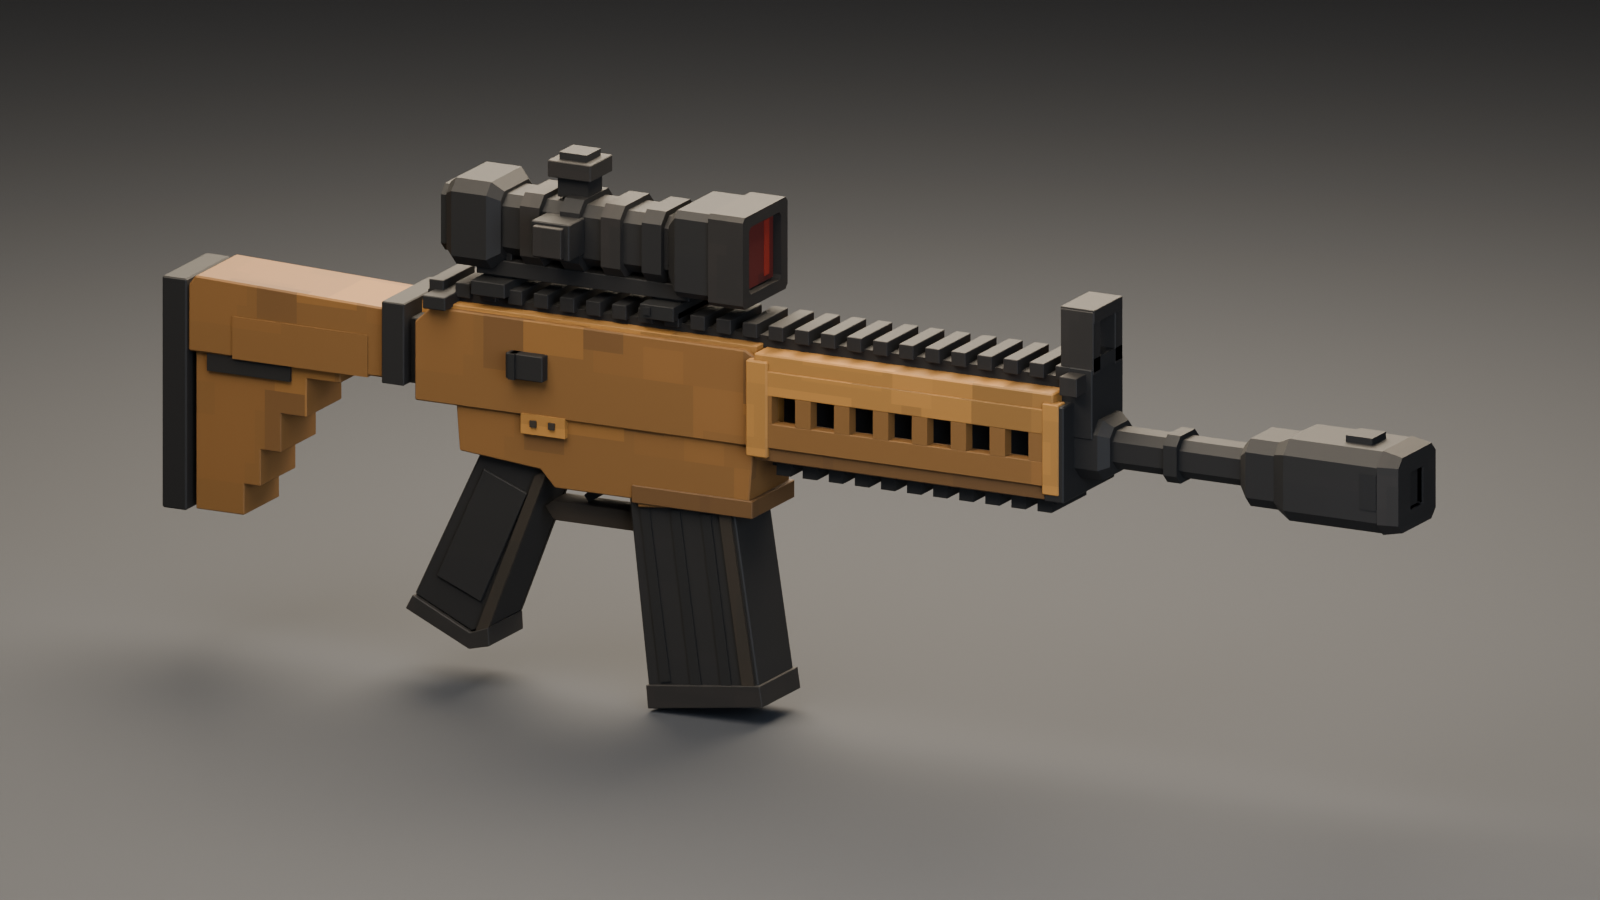
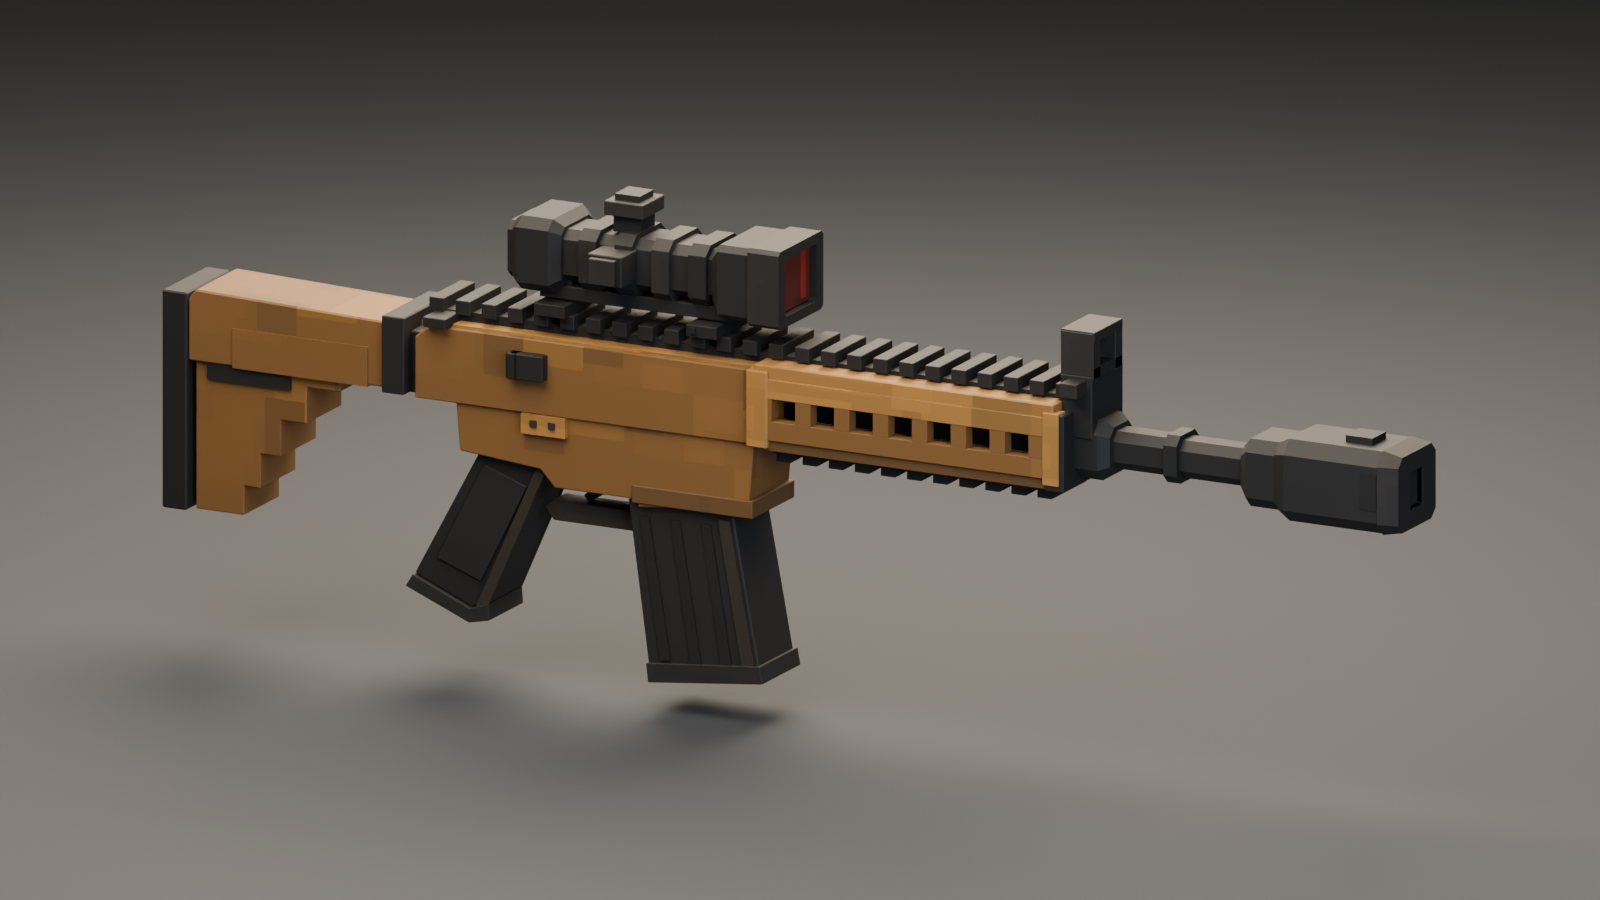
chore(project): update project files: add 1, update 5
Added: 1; Modified: 5.
Text lines: +53 / -11; binary files: 1.
- Modify: "blender/weapons/rifle_sand_block_v1/Rifle_Sand_Block_V1.blend"
- Modify: "blender/weapons/rifle_sand_block_v1/Rifle_Sand_Block_V1.glb"
- Modify: "blender/weapons/rifle_sand_block_v1/asset_report.json"
- Modify: "blender/weapons/rifle_sand_block_v1/build_rifle.py"
- Modify: "blender/weapons/rifle_sand_block_v1/review/three_quarter.png" (binary)
- Add: "blender/weapons/rifle_sand_block_v1/validation.json"

diff --git a/blender/weapons/rifle_sand_block_v1/build_rifle.py b/blender/weapons/rifle_sand_block_v1/build_rifle.py
@@ -294,6 +294,31 @@ box('Scope_Side_Cap', (.059,.048,.255), (.009,.028,.027), 7, .0006)
 for side in [-1,1]:
     box('Scope_Mount_Pin', (side*.040,.134,.199), (.003,.007,.007), 8)
 
+# Align the orthographic proportions to the supplied side view. The reference
+# has a shallow receiver and optic, a shorter raked grip, and a compact magazine.
+for ob in parts:
+    for v in ob.data.vertices:
+        if ob.name.startswith('Scope_'):
+            v.co.y = .078+(v.co.y-.078)*.90+.050
+            v.co.z = .253+(v.co.z-.253)*.85-.020
+        elif ob.name.startswith('Grip_'):
+            v.co.z = .067+(v.co.z-.067)*.88
+        elif ob.name.startswith('Stock_'):
+            v.co.z = -.038+(v.co.z+.038)*.94
+        elif ob.name.startswith(('Upper_Receiver','Receiver_Top_Trim','Charging_Handle')):
+            v.co.z = .100+(v.co.z-.100)*.78
+        elif ob.name.startswith(('Handguard_','Vent_','Front_Handguard_','Lower_Rail_')):
+            v.co.z = .127+(v.co.z-.127)*.80
+        elif ob.name.startswith(('Top_Rail_','Upper_Rail_')):
+            v.co.z -= .016
+        elif ob.name.startswith('Sight_') and v.co.z > .170:
+            v.co.z = .170+(v.co.z-.170)*.75
+    ob.data.update()
+for ob in magazines:
+    for v in ob.data.vertices:
+        v.co.z = .037+(v.co.z-.037)*.82-.012
+    ob.data.update()
+
 
 def join(objs, name, pivot=(0,0,0)):
     bpy.ops.object.select_all(action='DESELECT')
@@ -313,10 +338,10 @@ def join(objs, name, pivot=(0,0,0)):
 body = join(parts, 'Rifle_Sand_Block_Body')
 mag = join(magazines, 'Rifle_Sand_Block_Magazine', (0,.163,.030))
 mag['role'] = 'Separate magazine; feed-mouth pivot'
-markers = {'RightHandGrip':(0,0,0), 'LeftHandGuide':(0,.350,.077),
-           'Muzzle':(0,.867,.123), 'AimReference':(0,.220,.253),
+markers = {'RightHandGrip':(0,0,0), 'LeftHandGuide':(0,.350,.087),
+           'Muzzle':(0,.867,.123), 'AimReference':(0,.256,.233),
            'RecoilPivot':(0,0,0), 'HolsterAttach':(0,0,0),
-           'Grip_Point':(0,0,0), 'Support_Hand_Point':(0,.350,.077),
+           'Grip_Point':(0,0,0), 'Support_Hand_Point':(0,.350,.087),
            'Muzzle_Point':(0,.867,.123)}
 for name, pos in markers.items():
     ob = bpy.data.objects.new(name, None)
